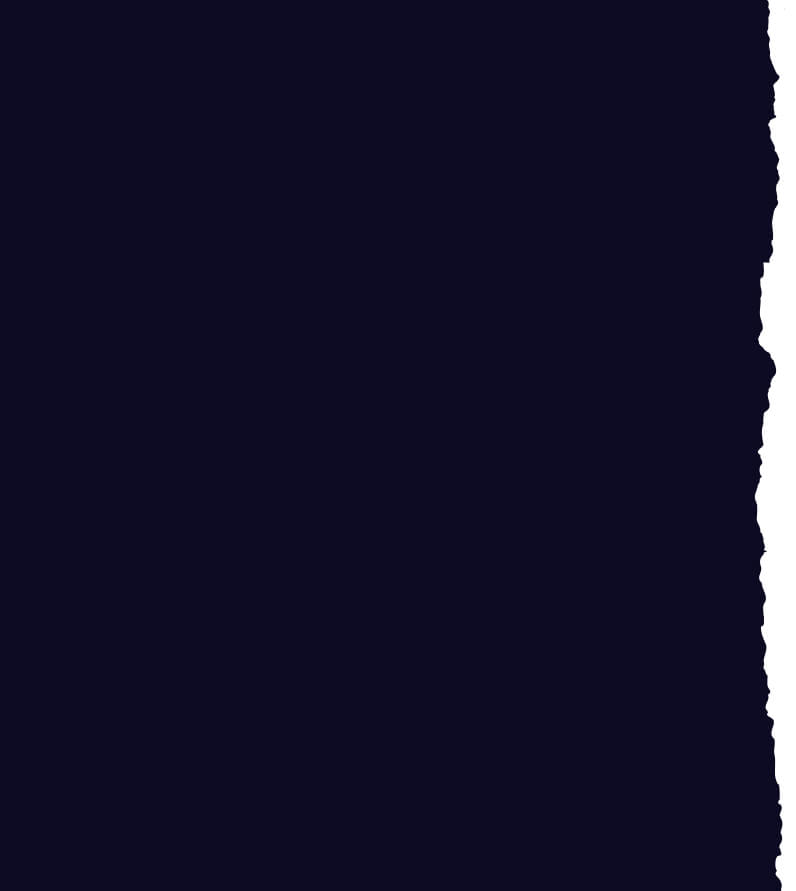
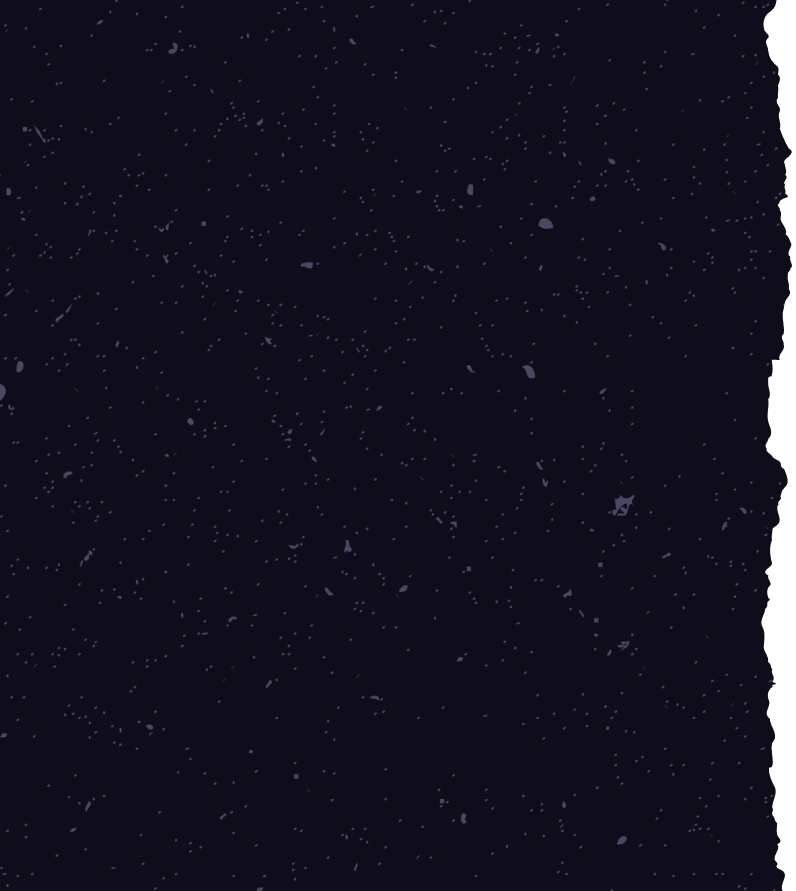
Home style changes
Changes on styles and images of the Home. Creation of CTA section.

diff --git a/pase-ninja.html b/pase-ninja.html
@@ -1,0 +1,75 @@
+<!DOCTYPE html>
+<html lang="es">
+<head>
+    <meta charset="UTF-8">
+    <meta name="viewport" content="width=device-width, initial-scale=1.0">
+    <meta name="description" content="Educación no convencional de Ninjas, para Ninjas. ">
+    <title>Ninja Academy</title>
+
+    <!--FAVICON-->
+    <link rel="apple-touch-icon" sizes="120x120" href="./favicon/favicon.png">
+    <link rel="icon" type="image/png" sizes="32x32" href="./favicon/favicon.png">
+    <link rel="icon" type="image/png" sizes="16x16" href="./favicon/favicon.png">
+
+    <!--BOOTSTRAP CSS-->
+    <link href="https://cdn.jsdelivr.net/npm/bootstrap@5.1.3/dist/css/bootstrap.min.css" rel="stylesheet"
+    integrity="sha384-1BmE4kWBq78iYhFldvKuhfTAU6auU8tT94WrHftjDbrCEXSU1oBoqyl2QvZ6jIW3" crossorigin="anonymous">
+
+    <!--GOOGLE FONTS-->
+    <link rel="preconnect" href="https://fonts.googleapis.com">
+    <link rel="preconnect" href="https://fonts.gstatic.com" crossorigin>
+    <link href="https://fonts.googleapis.com/css2?family=DM+Sans:wght@400;500;700&family=Lilita+One&display=swap" rel="stylesheet">
+
+    <!--ESTILOS CSS-->
+    <link rel="stylesheet" href="css/styles.css">
+
+</head>
+<body>
+
+<section>
+    <div class="pase-ninja container-fluid text-center back-darkblue">
+        <div class="row back-purple">
+            <h2>¿Listo para ser Ninja?</h2>
+        </div>
+        <div class="row justify-content-center back-purple">
+            <div class="col-8">
+                <img src="./images/pases-ninja.png" alt="">
+            </div>
+        </div>
+        <div class="row justify-content-center">
+            <div class="col-md-4">
+                <div class="row">
+                    <div class="col-md-12">
+                        <h4>¿Ya tienes un pase?</h4>
+                    </div>
+                    <div class="row">
+                        <div class="col-6">
+                            <button>¡Ya tengo!</button>
+                        </div>
+                        <div class="col-6">
+                            <button>Aún no, Obtenerlo</button>
+                        </div>
+                    </div>
+                </div>
+            </div>
+        </div>
+
+    </div>
+
+</section>
+
+
+
+
+
+<!--JAVASCRIPT-->
+
+<!--BOOTSTRAP JS-->
+    <script src="https://cdn.jsdelivr.net/npm/bootstrap@5.1.3/dist/js/bootstrap.bundle.min.js"
+    integrity="sha384-ka7Sk0Gln4gmtz2MlQnikT1wXgYsOg+OMhuP+IlRH9sENBO0LRn5q+8nbTov4+1p"
+    crossorigin="anonymous"></script>
+
+
+</body>
+</html>
+

diff --git a/css/styles.css b/css/styles.css
@@ -15,7 +15,7 @@ h2 {
     font-weight: 500;
     text-transform: uppercase;
     font-size: 48px;
-    padding: 140px 0px 80px 0px;
+    padding: 100px 0px 50px 0px;
 }
 
 h3 {
@@ -30,7 +30,6 @@ h4 {
     font-weight: 400;
     font-size: 32px;
     text-transform: uppercase;
-    text-shadow: 2px 0px 15px #0000005f;
     line-height: 40px;
 }
 
@@ -117,7 +116,7 @@ p {
 
 .somos-ninjas-right {
     height:604px;
-    background-image: url(../images/home-somos-background.jpeg);
+    background-image: url(../images/home-somos-background-right.jpeg);
     background-repeat: no-repeat;
     background-position: left;
     background-size: cover;
@@ -151,6 +150,7 @@ p {
 .parallax-background h4 {
     z-index: 1;
     text-align:center;
+    text-shadow: 2px 0px 15px #0000005f;
 }
 
 .separador {
@@ -192,7 +192,7 @@ p {
 
 /*---Queremos---*/
 .que-queremos-container {
-    height: 504px;
+    height: 410px;
     z-index: 2;
 }
 
@@ -216,7 +216,7 @@ p {
 }
 
 .queremos {
-    height: 504px;
+    height: 570px;
     background-image: url(../images/queremos-background-xl-2.jpeg);
     background-repeat: no-repeat;
     background-position: center;
@@ -229,6 +229,9 @@ p {
 .mindset-container {
     height: 800px;
     margin-top: -110px;
+    background-image: url(../images/mindset-separador-bottom.png);
+    background-repeat: no-repeat;
+    background-position: bottom;
 }
 
 .mindset-container h2 {
@@ -295,6 +298,12 @@ footer a {
 .footer-barra-abajo a:hover {
     color: black;
 }
+
+/*---Pase Ninja---*/
+.pase-ninja {
+    height: 604px;
+}
+
 
 
 /*MEDIA QUERIES*/

diff --git a/index.html b/index.html
@@ -15,7 +15,7 @@
     <link href="https://cdn.jsdelivr.net/npm/bootstrap@5.1.3/dist/css/bootstrap.min.css" rel="stylesheet"
     integrity="sha384-1BmE4kWBq78iYhFldvKuhfTAU6auU8tT94WrHftjDbrCEXSU1oBoqyl2QvZ6jIW3" crossorigin="anonymous">
 
-    <!--GOOGLE FONTS-->s
+    <!--GOOGLE FONTS-->
     <link rel="preconnect" href="https://fonts.googleapis.com">
     <link rel="preconnect" href="https://fonts.gstatic.com" crossorigin>
     <link href="https://fonts.googleapis.com/css2?family=DM+Sans:wght@400;500;700&family=Lilita+One&display=swap" rel="stylesheet">
@@ -86,7 +86,7 @@
             </div>
             <div class="row align-items-center">
                 <div class="separador">
-                    <img src="./images/separador-1.svg" alt="separador de papel">
+                    <img src="./images/separador-2.svg" alt="separador de papel">
                 </div>
             </div>
         </div>
@@ -165,7 +165,7 @@
     <section>
         <div class="container-fluid mindset-container">
             <div class="row mindset-separador justify-content-center">
-                <img src="./images/mindset-separador.png" alt="separador">
+                <img src="./images/mindset-separador-top.png" alt="separador">
             </div>
             <div class="row mindset-row-content justify-content-center text-center back-purple">
                 <h2>Mindset Ninja</h2>
